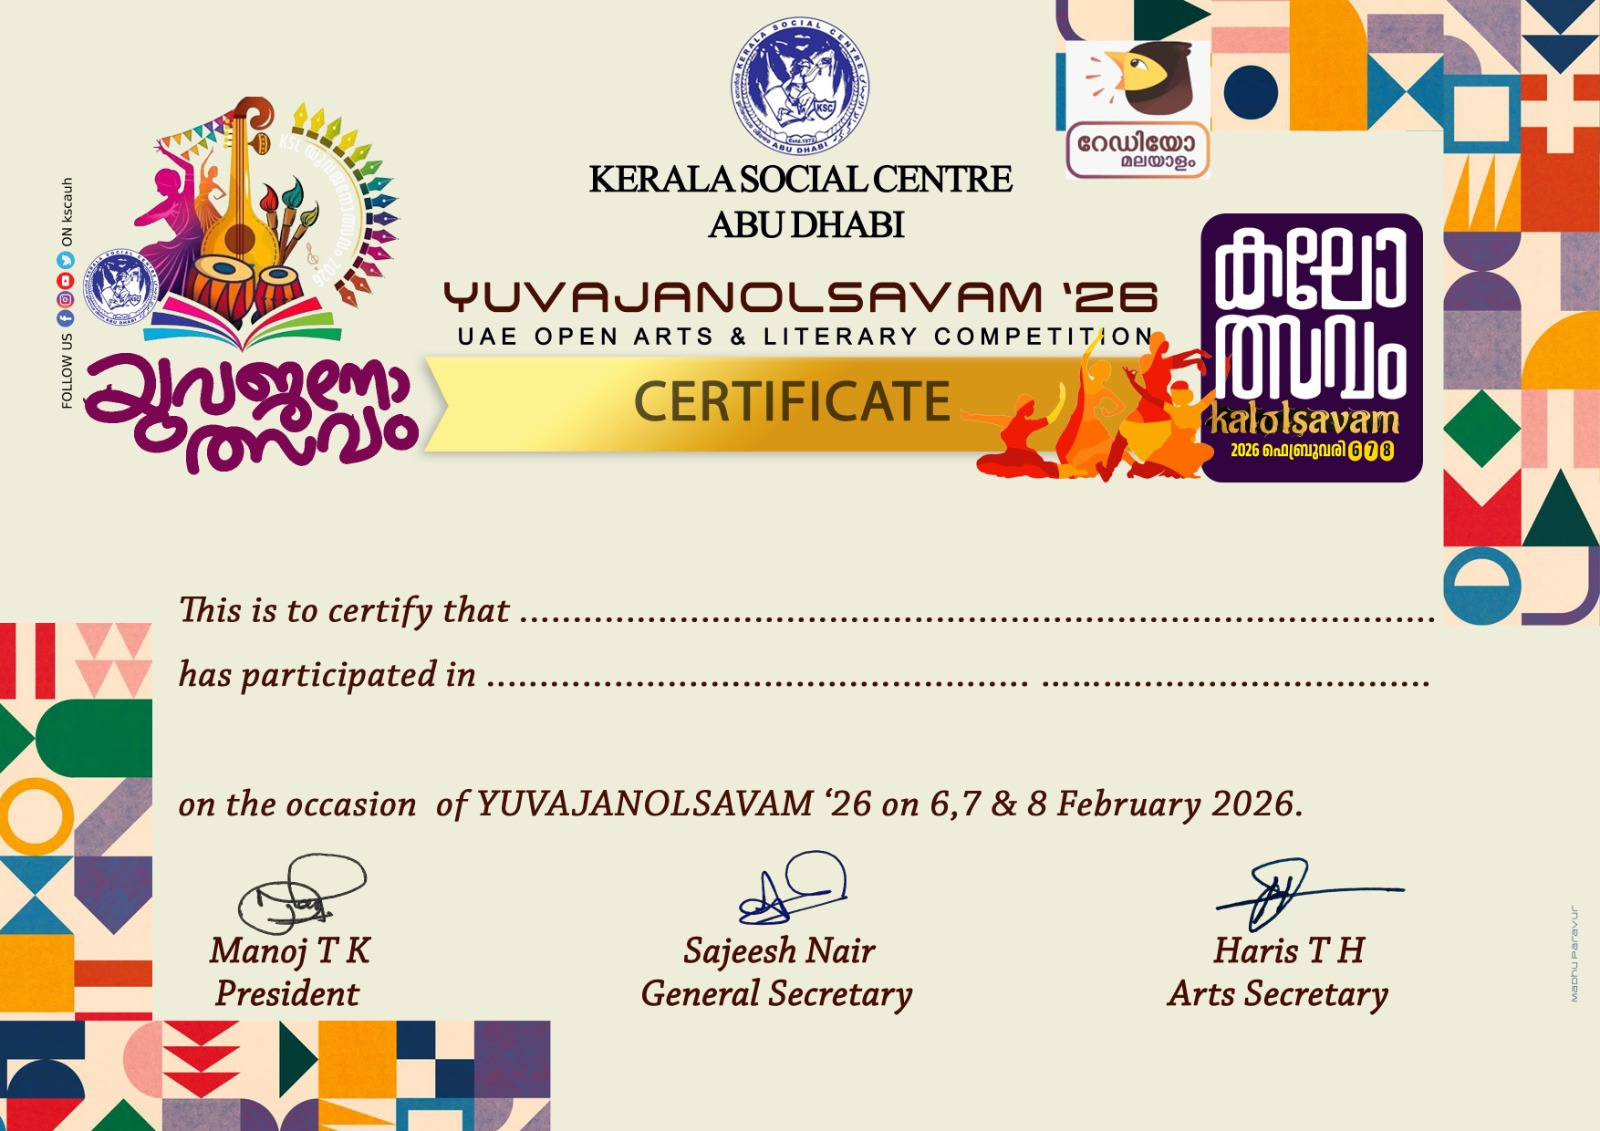
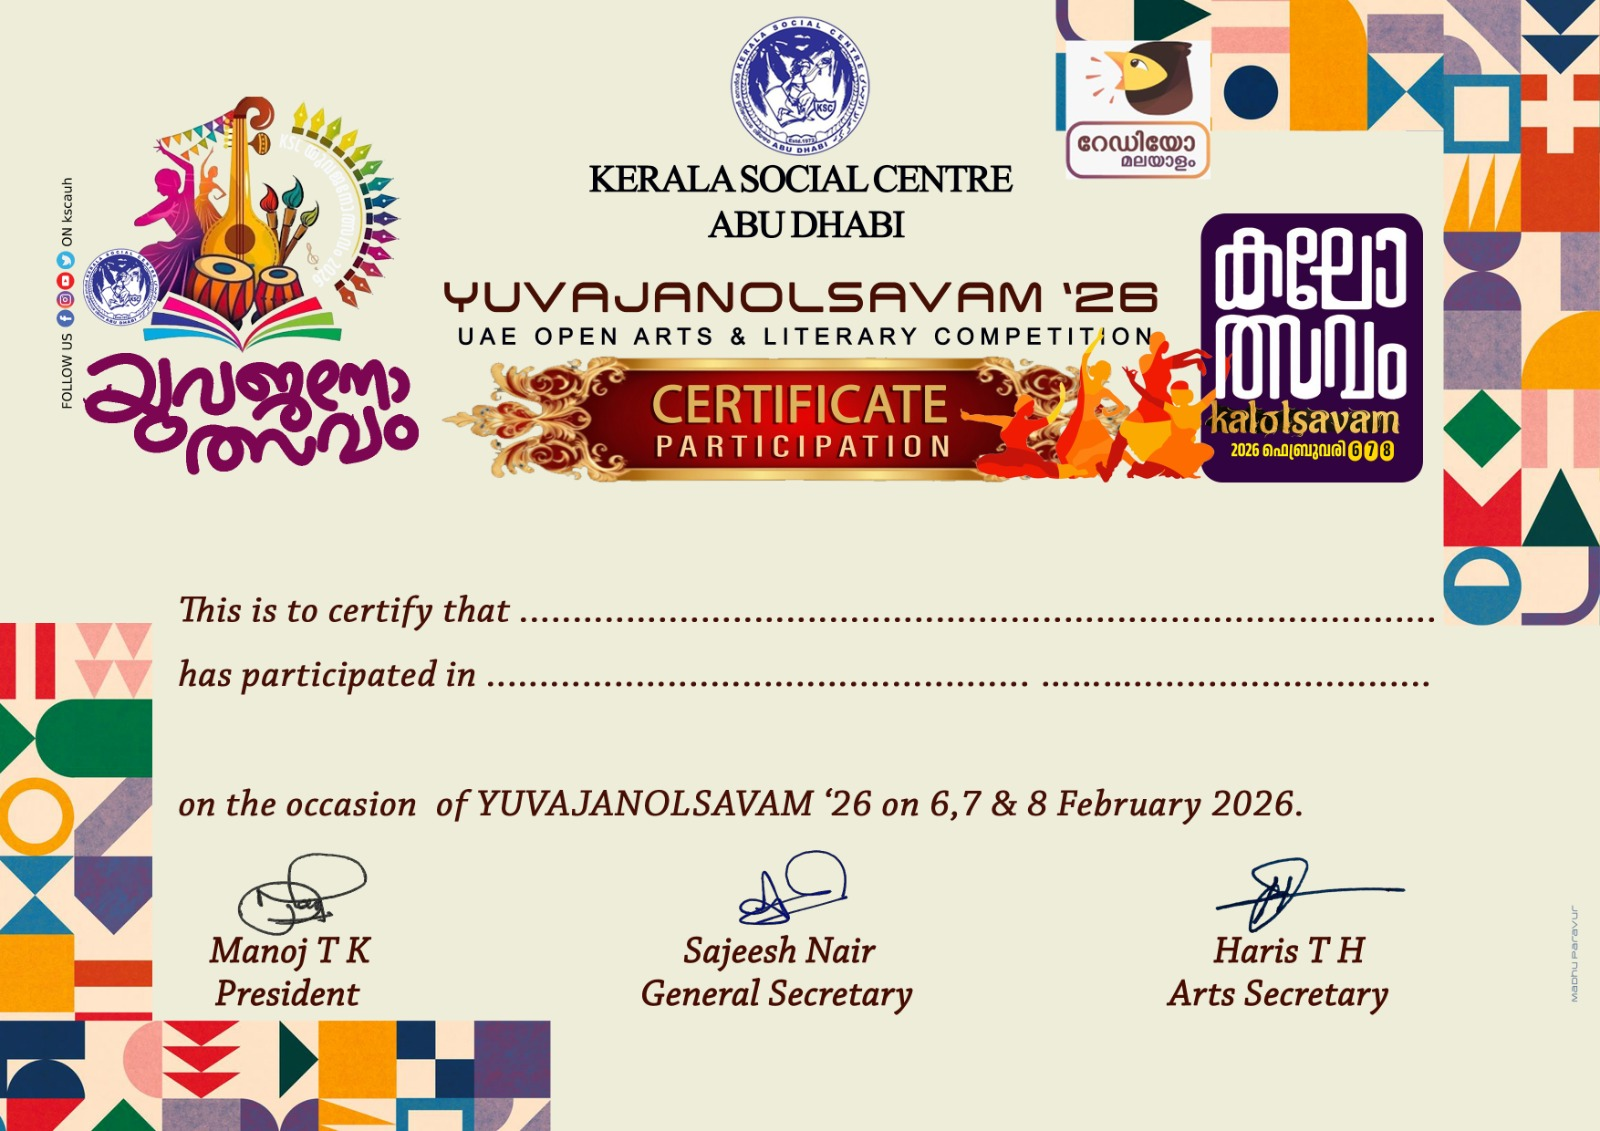
Deploy wwwroot assets from etalenterWeb build 20260206.6 - 2026-02-06 13:09:24

Changed region(s): [[0.25, 0.3095, 0.7188, 0.4332]]

diff --git a/Content/printcards.css b/Content/printcards.css
@@ -33,7 +33,7 @@
 .gridrow{
       display: flex;
       /* grid-template-columns: repeat(3, 1fr); */
-      margin-bottom: 4px;
+      /* margin-bottom: 4px; */
       /* gap: 0px; */
       padding:
           0px 60px;
@@ -432,7 +432,8 @@ span.closetemplates {
     margin-top: 1px;
     line-height: 13px;
     display: block;
-    font-size: 12px;
+    font-size: 14px;
+    margin-bottom: 4px;
     /* font-size: clamp(1rem, 2vw, 3rem); */
 }
 
@@ -578,7 +579,7 @@ img.medal {
     top: -7px; font-style: italic;
 }
 
-.originallist[stylishgroupid='customtheme2images1'] [data-stylish='Competition2 Item Name']{
+.originallist[stylishgroupid='customtheme2images1'] [data-stylish='Competition2 Item Name'],.originallist[stylishgroupid='customtheme2images2'] [data-stylish='Competition2 Item Name']{
     width: 32%;
     display: flex;
     position: relative;
@@ -586,7 +587,7 @@ img.medal {
     top: -47px; font-style: italic;
 }
 
-.originallist[stylishgroupid='customtheme2images1'] [data-stylish='Rank']{
+.originallist[stylishgroupid='customtheme2images1'] [data-stylish='Rank'],.originallist[stylishgroupid='customtheme2images2'] [data-stylish='Rank']{
     width: 32%;
     display: flex;
     position: relative;
@@ -609,14 +610,14 @@ img.medal {
     top: -27px;
     /* font-style: italic; */
 }
-.originallist[stylishgroupid='customtheme2images1'] [data-stylish="Group Item Name"]{
+.originallist[stylishgroupid='customtheme2images1'] [data-stylish="Group Item Name"],.originallist[stylishgroupid='customtheme2images2'] [data-stylish="Group Item Name"]{
 display:none !important;
 }
 
-.originallist[stylishgroupid='customtheme2images1'] .priceslist{
+.originallist[stylishgroupid='customtheme2images1'] .priceslist,.originallist[stylishgroupid='customtheme2images2'] .priceslist{
 display:none
 }
-.originallist[stylishgroupid='customtheme2images1'] [data-stylish='User Name'] {
+.originallist[stylishgroupid='customtheme2images1'] [data-stylish='User Name'],.originallist[stylishgroupid='customtheme2images2'] [data-stylish='User Name'] {
     font-size: 18px !important;
     text-transform: uppercase;
     padding-bottom: 14px;
@@ -692,15 +693,17 @@ display:none
 .printparticipantcertificate .subdatacolumn.priceslist{
     white-space: nowrap;
     display: flex;
-    margin-top: 11px;
-    height: 50px;
-    background-color: #eeedd9;
+    margin-top: 6px;
+    height: 57px;
+    /* background-color: #eeedd9; */
     width: 100%;
     flex-wrap: wrap;
     align-items: baseline;
     /* background-color: #e0d6c3; */
     justify-content: center;
     /* font-size: 19px; */
+    place-items: center;
+    align-content: space-evenly;
 }
 
 .printparticipantcertificate  .originallist[stylishgroupid='customtheme2images0'] .subdatacolumn.priceslist [data-label="title"]{
@@ -708,14 +711,28 @@ display:none
     padding-right:12px;
 }
 
-.printparticipantcertificate  .originallist[stylishgroupid='customtheme2images1'] [data-stylish="Group Item Name"]{display:block !important;height: 24px;font-size: 17px !important;padding-top: 0px;}
+.printparticipantcertificate  .originallist[stylishgroupid='customtheme2images1'] [data-stylish="Group Item Name"],.printparticipantcertificate  .originallist[stylishgroupid='customtheme2images2'] [data-stylish="Group Item Name"]{
+    display:block !important;height: 24px;font-size: 17px !important;padding-top: 0px;
+}
 
-.printparticipantcertificate  .originallist[stylishgroupid='customtheme2images1'] [data-stylish='User Name'] 
+.printparticipantcertificate  .originallist[stylishgroupid='customtheme2images1'] [data-stylish='User Name'],.printparticipantcertificate  .originallist[stylishgroupid='customtheme2images2'] [data-stylish='User Name'] 
  {
     padding-bottom: 4px;
  }
 
-.printparticipantcertificate .originallist[stylishgroupid='customtheme2images1'] [data-stylish='Content']{
-    padding-top: 194px !important;
+.printparticipantcertificate .originallist[stylishgroupid='customtheme2images1'] [data-stylish='Content'],.printparticipantcertificate .originallist[stylishgroupid='customtheme2images2'] [data-stylish='Content']{
+    padding-top: 205px !important;
     padding-left: 71px !important;
+}
+
+.printparticipantcertificate .originallist[stylishgroupid='customtheme2images1'] [data-stylish='User Name'],.printparticipantcertificate .originallist[stylishgroupid='customtheme2images2'] [data-stylish='User Name'] {
+    padding-left: 0px !important;
+    text-align: center !important;
+    /* margin-left: 67px; */
+    width: 235px;
+    white-space: nowrap;
+}
+
+.printparticipantcertificate .originallist[stylishgroupid='customtheme2images2'] .subdatacolumn.priceslist{
+    height: 23px;
 }
